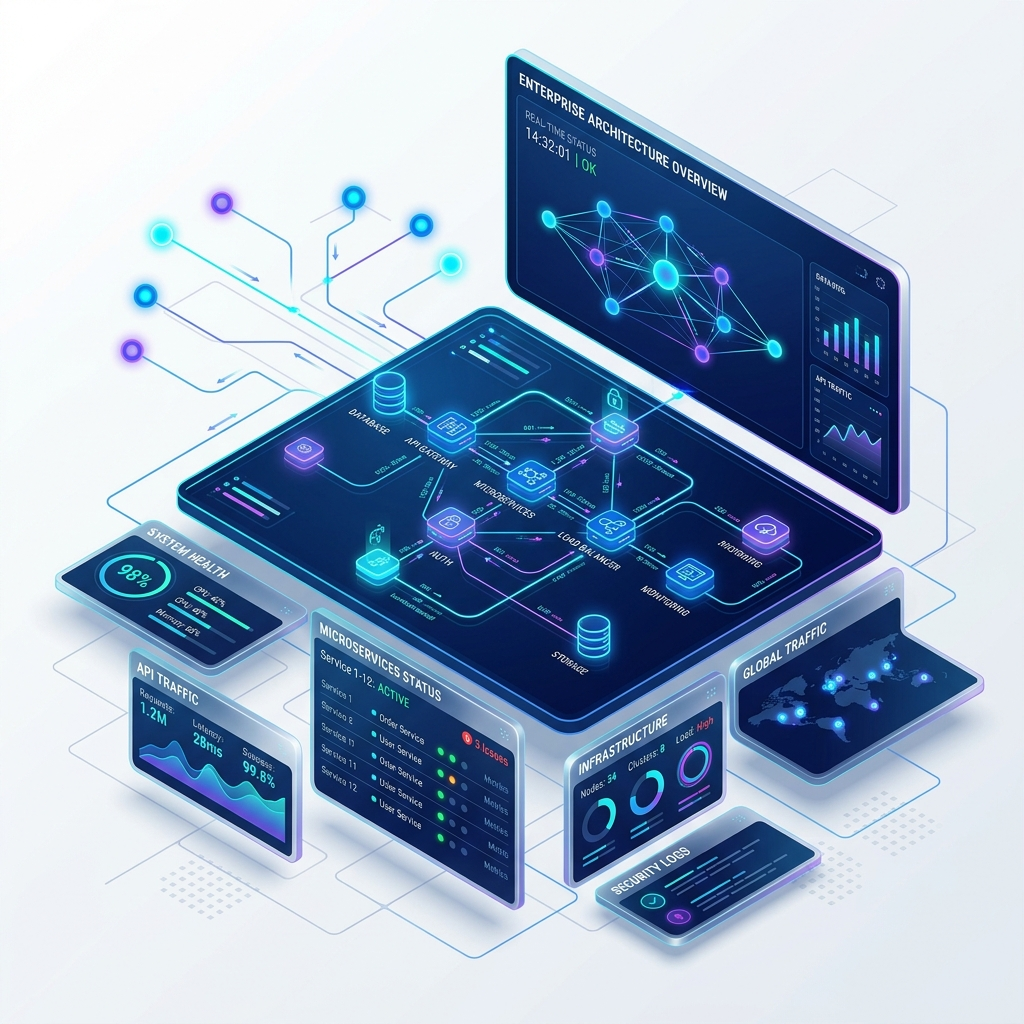
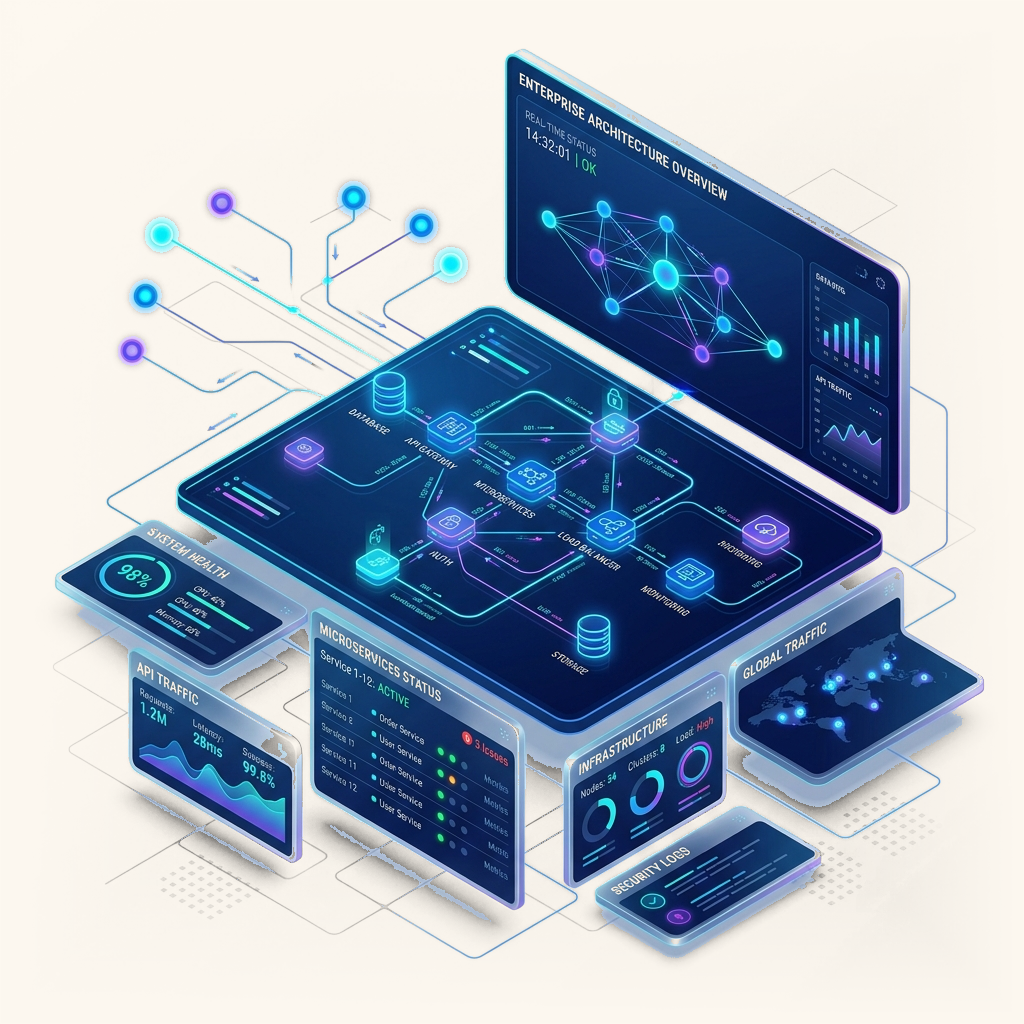
h

diff --git a/lib/servicePageStyles.js b/lib/servicePageStyles.js
@@ -32,13 +32,11 @@ export const servicePageStyles = (primaryColor = "#2563eb", gradFrom = "#1e3a8a"
   .vd-wrap {
     background-color: #fdf8f0;
     color: #0f172a;
-    min-height: 100vh;
     width: 100%;
     max-width: 100%;
-    overflow-x: hidden;
+    overflow-x: clip;
     overscroll-behavior-x: none;
     -webkit-font-smoothing: antialiased;
-    scroll-behavior: smooth;
   }
 
   .vd-wrap > *,
@@ -314,7 +312,7 @@ export const servicePageStyles = (primaryColor = "#2563eb", gradFrom = "#1e3a8a"
     background: transparent;
     padding: 40px 20px 40px;
     position: relative;
-    overflow: hidden;
+    overflow: visible;
   }
   .sh-container {
     max-width: 1240px;
@@ -334,12 +332,14 @@ export const servicePageStyles = (primaryColor = "#2563eb", gradFrom = "#1e3a8a"
     grid-template-columns: 1fr 480px;
     gap: 40px;
     position: relative;
-    overflow: hidden;
+    overflow: visible;
     box-shadow: none;
   }
   .sh-grid-bg {
     position: absolute;
     inset: 0;
+    border-radius: 32px;
+    overflow: hidden;
     background-image: 
       linear-gradient(rgba(59, 130, 246, 0.08) 1px, transparent 1px),
       linear-gradient(90deg, rgba(59, 130, 246, 0.08) 1px, transparent 1px);
@@ -959,6 +959,7 @@ export const servicePageStyles = (primaryColor = "#2563eb", gradFrom = "#1e3a8a"
     justify-content: center;
     align-items: center;
     padding: 16px 0;
+    margin-top: 56px;
   }
   .sh-mockup-glow {
     position: absolute;
@@ -972,26 +973,20 @@ export const servicePageStyles = (primaryColor = "#2563eb", gradFrom = "#1e3a8a"
     position: relative;
     z-index: 2;
     width: 100%;
-    background: #ffffff;
+    background: transparent;
     border-radius: 20px;
-    border: 1.5px solid #e2e8f0;
-    box-shadow: 0 25px 60px rgba(15, 23, 42, 0.12), 0 0 1px rgba(15, 23, 42, 0.15);
-    overflow: hidden;
-    transition: transform 0.4s cubic-bezier(0.16, 1, 0.3, 1), box-shadow 0.4s ease;
+    border: none !important;
+    box-shadow: none !important;
+    overflow: visible;
+    transition: transform 0.4s cubic-bezier(0.16, 1, 0.3, 1);
   }
   .sh-browser-mockup:hover {
     transform: translateY(-4px);
-    box-shadow: 0 35px 80px rgba(15, 23, 42, 0.18), 0 0 40px ${glowRgba.replace('0.3', '0.2')};
-    border-color: #cbd5e1;
+    box-shadow: none !important;
+    border: none !important;
   }
   .sh-browser-header {
-    background: #f8fafc;
-    border-bottom: 1px solid #e2e8f0;
-    padding: 10px 16px;
-    display: flex;
-    align-items: center;
-    justify-content: space-between;
-    gap: 12px;
+    display: none !important;
   }
   .sh-browser-dots {
     display: flex;
@@ -1010,7 +1005,7 @@ export const servicePageStyles = (primaryColor = "#2563eb", gradFrom = "#1e3a8a"
     flex: 1;
     max-width: 240px;
     background: #ffffff;
-    border: 1px solid #e2e8f0;
+    border: 1px solid #ebdccb;
     border-radius: 8px;
     padding: 4px 10px;
     display: flex;
@@ -1046,40 +1041,39 @@ export const servicePageStyles = (primaryColor = "#2563eb", gradFrom = "#1e3a8a"
   }
   .sh-browser-viewport {
     position: relative;
-    overflow: hidden;
-    background: #0f172a;
+    overflow: visible;
+    background: transparent;
     display: flex;
     align-items: center;
     justify-content: center;
-    max-height: 420px;
+    max-height: 440px;
     width: 100%;
+    border: none !important;
   }
   .sh-browser-img {
     width: 100%;
-    height: 100%;
-    max-height: 420px;
+    height: auto;
+    max-height: 440px;
     display: block;
-    object-fit: cover;
-    object-position: top center;
+    object-fit: contain;
+    border: none !important;
+    outline: none !important;
     transition: transform 0.5s cubic-bezier(0.16, 1, 0.3, 1);
   }
   .sh-browser-mockup:hover .sh-browser-img {
     transform: scale(1.03);
   }
   .sh-browser-glare {
-    position: absolute;
-    inset: 0;
-    background: linear-gradient(135deg, rgba(255, 255, 255, 0.15) 0%, transparent 40%);
-    pointer-events: none;
+    display: none;
   }
   .sh-mockup-float-badge {
     position: absolute;
     z-index: 10;
     background: #ffffff;
-    border: 1.5px solid #e2e8f0;
+    border: 1.5px solid #ebdccb;
     border-radius: 14px;
     padding: 10px 14px;
-    box-shadow: 0 16px 36px rgba(15, 23, 42, 0.12);
+    box-shadow: 0 16px 36px rgba(15, 23, 42, 0.08);
     display: flex;
     align-items: center;
     gap: 10px;

diff --git a/app/product/cash-point/page.js b/app/product/cash-point/page.js
@@ -103,51 +103,51 @@ export default function CashPointPage() {
 
         <section className="cash-point-services-section" id="payment-services">
           <div className="cash-point-section-heading">
-            <span className="cash-point-eyebrow">ONE PLATFORM • MANY POSSIBILITIES</span>
-            <h2>Our payment services</h2>
+            <span className="cash-point-eyebrow">⚡ ONE PLATFORM • MANY POSSIBILITIES</span>
+            <h2>💳 Our payment services ✨</h2>
             <p>Give every merchant a simple way to collect, transfer, deposit and pay out money while your team manages the complete operation from one place.</p>
           </div>
 
           <div className="cash-point-services-list">
             <article className="cash-point-service-card cash-point-service-card-featured">
               <span className="cash-point-card-number">01</span>
-              <div className="cash-point-card-icon">⌁</div>
-              <h3>QR Payment</h3>
+              <div className="cash-point-card-icon">📱</div>
+              <h3>📲 QR Payment</h3>
               <p>Accept fast, convenient digital payments through merchant QR codes and keep every collection visible in real time.</p>
               <span className="cash-point-card-link">Quick collections <b>↗</b></span>
             </article>
             <article className="cash-point-service-card">
               <span className="cash-point-card-number">02</span>
-              <div className="cash-point-card-icon">↔</div>
-              <h3>Domestic Money Transfer</h3>
+              <div className="cash-point-card-icon">💸</div>
+              <h3>💸 Domestic Money Transfer</h3>
               <p>Help customers send money securely with a streamlined DMT experience for assisted and agent-led transactions.</p>
               <span className="cash-point-card-link">Reliable transfers <b>↗</b></span>
             </article>
             <article className="cash-point-service-card">
               <span className="cash-point-card-number">03</span>
-              <div className="cash-point-card-icon">◉</div>
-              <h3>AEPS</h3>
+              <div className="cash-point-card-icon">🏧</div>
+              <h3>🏧 AEPS (Aadhaar Banking)</h3>
               <p>Enable Aadhaar-enabled banking services through a trusted agent network with clear transaction tracking.</p>
               <span className="cash-point-card-link">Assisted banking <b>↗</b></span>
             </article>
             <article className="cash-point-service-card">
               <span className="cash-point-card-number">04</span>
-              <div className="cash-point-card-icon">₹</div>
-              <h3>Aadhaar Pay</h3>
+              <div className="cash-point-card-icon">👆</div>
+              <h3>👆 Aadhaar Pay</h3>
               <p>Make secure, assisted payments using Aadhaar authentication for customers who prefer convenient local access.</p>
               <span className="cash-point-card-link">Simple verification <b>↗</b></span>
             </article>
             <article className="cash-point-service-card">
               <span className="cash-point-card-number">05</span>
-              <div className="cash-point-card-icon">＋</div>
-              <h3>Cash Deposit</h3>
+              <div className="cash-point-card-icon">💵</div>
+              <h3>💵 Cash Deposit</h3>
               <p>Support agent-assisted cash deposits with a transparent record of every customer, amount and settlement.</p>
               <span className="cash-point-card-link">Clear settlements <b>↗</b></span>
             </article>
             <article className="cash-point-service-card">
               <span className="cash-point-card-number">06</span>
-              <div className="cash-point-card-icon">↗</div>
-              <h3>Payout Services</h3>
+              <div className="cash-point-card-icon">🚀</div>
+              <h3>🚀 Payout Services</h3>
               <p>Send business payouts with dependable controls, status visibility and a workflow designed for daily operations.</p>
               <span className="cash-point-card-link">Business-ready payouts <b>↗</b></span>
             </article>

diff --git a/app/contact/page.js b/app/contact/page.js
@@ -7,7 +7,6 @@ import Link from "next/link";
 
 export default function ContactPage() {
   const [selectedTopic, setSelectedTopic] = useState("Web Dev");
-  const [selectedBudget, setSelectedBudget] = useState("$10K - $50K");
   const [formData, setFormData] = useState({
     name: "",
     email: "",
@@ -26,7 +25,6 @@ export default function ContactPage() {
     { id: "cloud", label: "Cloud & SOC 2 Security", icon: "🛡" },
     { id: "blockchain", label: "Web3 & Blockchain", icon: "💎" },
   ];
-  const budgetOptions = ["Less than $10K", "$10K - $50K", "More than $50K"];
 
   const handleTopicClick = (label) => {
     setSelectedTopic(label);
@@ -52,7 +50,6 @@ export default function ContactPage() {
       `Name: ${formData.name || "Not provided"}`,
       `Email: ${formData.email}`,
       `Service: ${selectedTopic}`,
-      `Budget: ${selectedBudget}`,
       `Project details: ${formData.message || "Not provided"}`,
     ].join("\n");
     window.open(`https://wa.me/918588807039?text=${encodeURIComponent(whatsappMessage)}`, "_blank", "noopener,noreferrer");
@@ -67,7 +64,7 @@ export default function ContactPage() {
         body: JSON.stringify({
           ...formData,
           company: formData.company || "Website inquiry",
-          message: [formData.message, `Service: ${selectedTopic}`, `Budget: ${selectedBudget}`].filter(Boolean).join("\n\n"),
+          message: [formData.message, `Service: ${selectedTopic}`].filter(Boolean).join("\n\n"),
           sourcePage: "contact_page_form",
         }),
       });
@@ -197,17 +194,6 @@ export default function ContactPage() {
                 {projectTopics.slice(0, 4).map((topic) => (
                   <button key={topic.id} type="button" className={`reference-pill ${selectedTopic === topic.label ? "active" : ""}`} onClick={() => setSelectedTopic(topic.label)}>
                     {topic.label}
-                  </button>
-                ))}
-              </div>
-            </div>
-
-            <div className="reference-field-group">
-              <label>Budget</label>
-              <div className="reference-pill-row">
-                {budgetOptions.map((budget) => (
-                  <button key={budget} type="button" className={`reference-pill ${selectedBudget === budget ? "active" : ""}`} onClick={() => setSelectedBudget(budget)}>
-                    {budget}
                   </button>
                 ))}
               </div>

diff --git a/app/globals.css b/app/globals.css
@@ -72,7 +72,7 @@ body {
 html, body {
   width: 100%;
   min-height: 100vh;
-  overflow-x: hidden;
+  overflow-x: clip;
   -webkit-overflow-scrolling: touch;
   overscroll-behavior-x: none;
   touch-action: pan-y;
